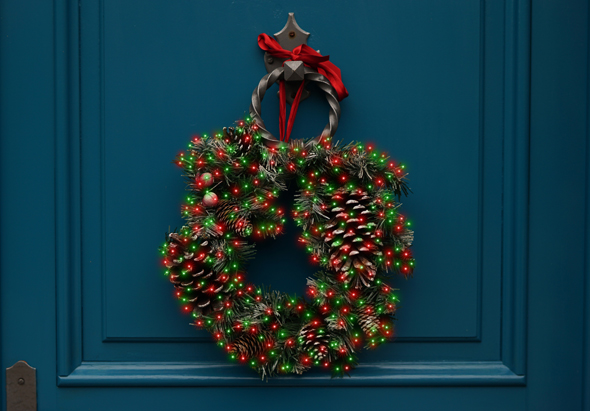
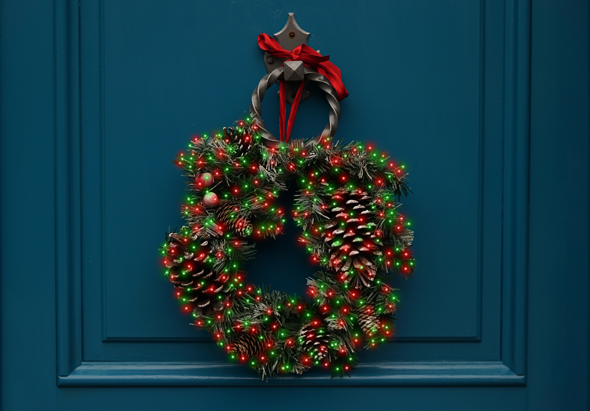
updt

Changed region(s): [[0.0, 0.8759, 0.0915, 1.0]]

diff --git a/lights_html/index.html b/lights_html/index.html
@@ -59,10 +59,10 @@
 <img src="https://raw.githubusercontent.com/akidaniel/almacen/gh-pages/lights_html/lights_images/store2.gif" alt="Store animation">
 <img src="https://raw.githubusercontent.com/akidaniel/almacen/gh-pages/lights_html/lights_images/blank.gif" alt="blank">
 
-<img src="https://raw.githubusercontent.com/akidaniel/almacen/gh-pages/lights_html/lights_images/dock.png" style="display:block;" alt="Dock mask">
-<img src="https://raw.githubusercontent.com/akidaniel/almacen/gh-pages/lights_html/lights_images/dock.jpg" alt="Dock">
+<img src="https://raw.githubusercontent.com/akidaniel/almacen/gh-pages/lights_html/lights_images/xstms.png" style="display:block;" alt="Christmas mask">
+<img src="https://raw.githubusercontent.com/akidaniel/almacen/gh-pages/lights_html/lights_images/xstms.jpg" alt="Christmas">
 <img src="https://raw.githubusercontent.com/akidaniel/almacen/gh-pages/lights_html/lights_images/blank.gif" alt="blank">
-<img src="https://raw.githubusercontent.com/akidaniel/almacen/gh-pages/lights_html/lights_images/dock.gif" alt="Dock animation">
+<img src="https://raw.githubusercontent.com/akidaniel/almacen/gh-pages/lights_html/lights_images/xstms.gif" alt="Christmas animation">
 <img src="https://raw.githubusercontent.com/akidaniel/almacen/gh-pages/lights_html/lights_images/blank.gif" alt="blank">
 
 
